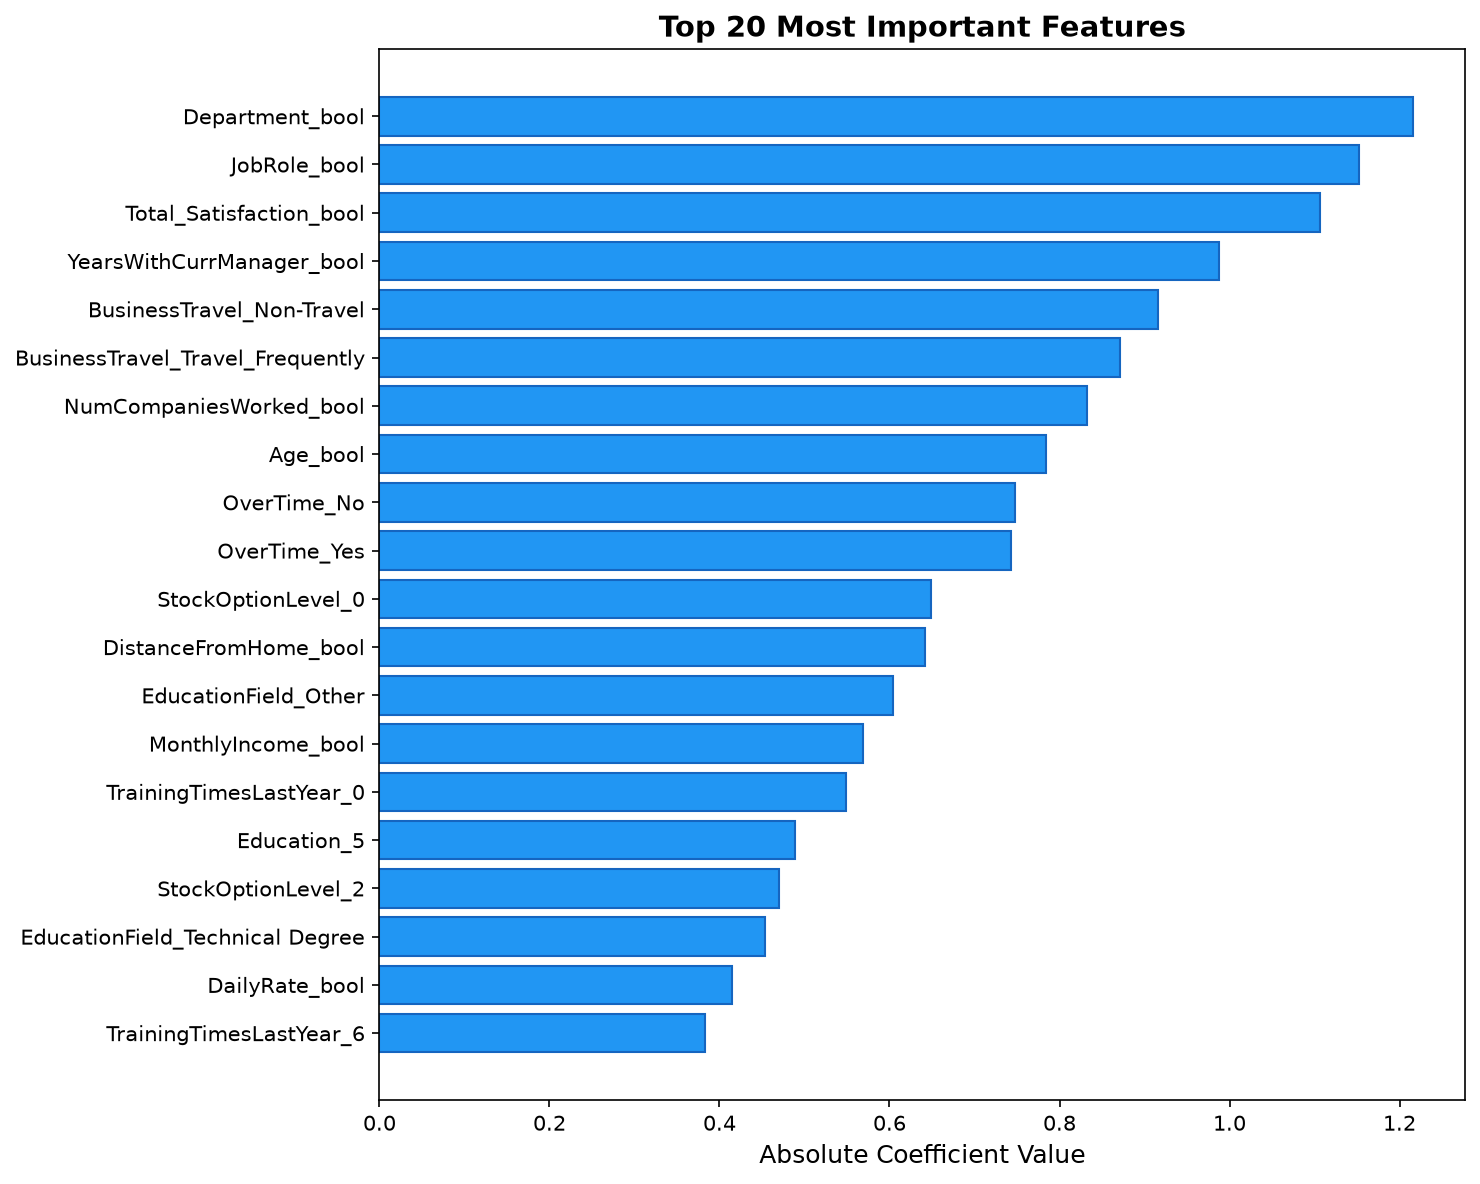
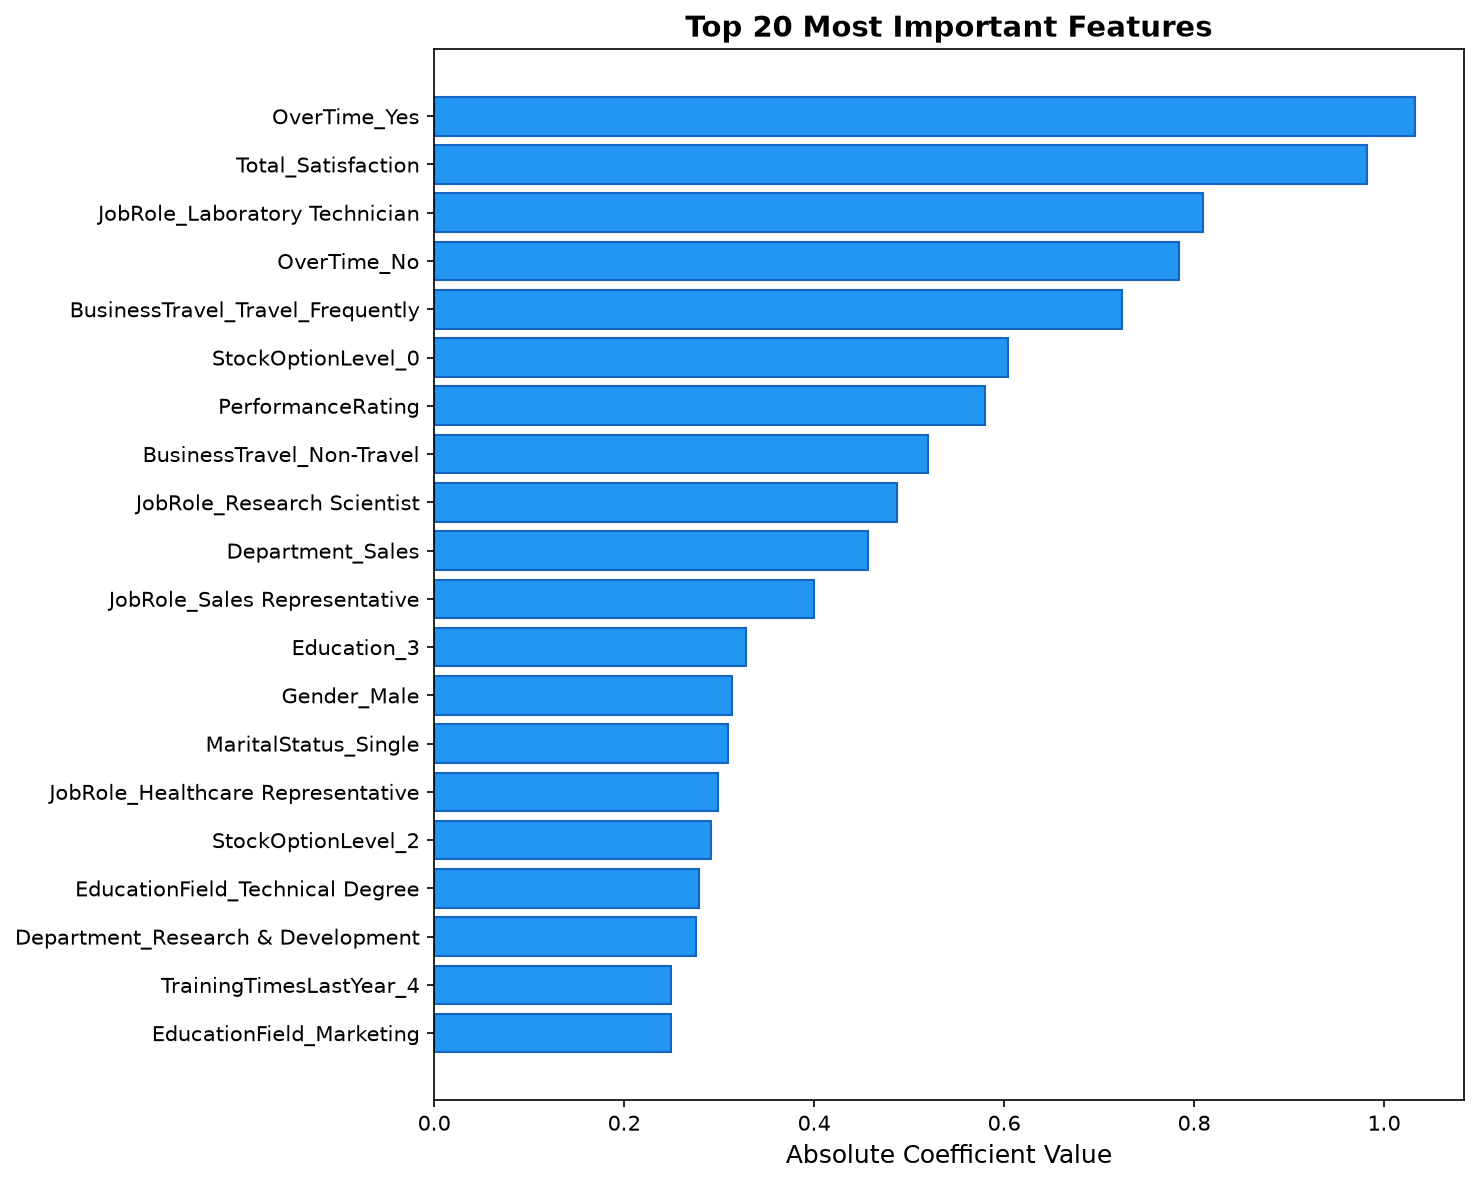
some changes in feature engg

diff --git a/utils.py b/utils.py
@@ -1,6 +1,5 @@
 
 
-import numpy as np
 import pandas as pd
 from sklearn.base import BaseEstimator, TransformerMixin
 
@@ -45,25 +44,7 @@ COLUMNS_TO_DROP_FROM_RAW = [
     "PercentSalaryHike",
 ]
 
-BOOLEAN_FEATURE_RULES = [
-    ("Age",                     "Age_bool",                     "<",  35),
-    ("DailyRate",               "DailyRate_bool",               "<",  800),
-    ("DistanceFromHome",        "DistanceFromHome_bool",        ">",  10),
-    ("HourlyRate",              "HourlyRate_bool",              "<",  65),
-    ("MonthlyIncome",           "MonthlyIncome_bool",           "<",  4000),
-    ("NumCompaniesWorked",      "NumCompaniesWorked_bool",      ">",  3),
-    ("TotalWorkingYears",       "TotalWorkingYears_bool",       "<",  8),
-    ("YearsAtCompany",          "YearsAtCompany_bool",          "<",  3),
-    ("YearsInCurrentRole",      "YearsInCurrentRole_bool",      "<",  3),
-    ("YearsSinceLastPromotion", "YearsSinceLastPromotion_bool", "<",  1),
-    ("YearsWithCurrManager",    "YearsWithCurrManager_bool",    "<",  1),
-]
 
-
-STRING_BOOLEAN_RULES = [
-    ("Department", "Department_bool", "==", "Research & Development"),
-    ("JobRole",    "JobRole_bool",    "==", "Laboratory Technician"),
-]
 
 
 SATISFACTION_COLUMNS = [
@@ -77,9 +58,11 @@ SATISFACTION_COLUMNS = [
 
 CATEGORICAL_FEATURES = [
     "BusinessTravel",
+    "Department",
     "Education",
     "EducationField",
     "Gender",
+    "JobRole",
     "MaritalStatus",
     "OverTime",
     "StockOptionLevel",
@@ -88,36 +71,25 @@ CATEGORICAL_FEATURES = [
 
 
 NUMERICAL_FEATURES = [
+    "Age",
+    "DailyRate",
+    "DistanceFromHome",
+    "HourlyRate",
+    "JobLevel",
+    "MonthlyIncome",
+    "NumCompaniesWorked",
     "PerformanceRating",
-    "Total_Satisfaction_bool",
-    "Age_bool",
-    "DailyRate_bool",
-    "Department_bool",
-    "DistanceFromHome_bool",
-    "JobRole_bool",
-    "HourlyRate_bool",
-    "MonthlyIncome_bool",
-    "NumCompaniesWorked_bool",
-    "TotalWorkingYears_bool",
-    "YearsAtCompany_bool",
-    "YearsInCurrentRole_bool",
-    "YearsSinceLastPromotion_bool",
-    "YearsWithCurrManager_bool",
+    "TotalWorkingYears",
+    "YearsAtCompany",
+    "YearsInCurrentRole",
+    "YearsSinceLastPromotion",
+    "YearsWithCurrManager",
+    "Total_Satisfaction",
 ]
 
 
 
-def _apply_comparison(series: pd.Series, comparator: str, threshold) -> pd.Series:
-    """Apply a comparison operator to a pandas Series."""
-    ops = {
-        "<":  lambda s, t: (s < t).astype(int),
-        ">":  lambda s, t: (s > t).astype(int),
-        ">=": lambda s, t: (s >= t).astype(int),
-        "<=": lambda s, t: (s <= t).astype(int),
-        "==": lambda s, t: (s == t).astype(int),
-        "!=": lambda s, t: (s != t).astype(int),
-    }
-    return ops[comparator](series, threshold)
+
 
 
 
@@ -144,22 +116,7 @@ class FeatureEngineer(BaseEstimator, TransformerMixin):
             df["Total_Satisfaction"] = (
                 df[satisfaction_cols_present].sum(axis=1) / len(satisfaction_cols_present)
             )
-            df["Total_Satisfaction_bool"] = (
-                df["Total_Satisfaction"].ge(2.8).astype(int)
-            )
-            df = df.drop(columns=satisfaction_cols_present + ["Total_Satisfaction"])
-
-        
-        for src, dst, comp, thresh in BOOLEAN_FEATURE_RULES:
-            if src in df.columns:
-                df[dst] = _apply_comparison(df[src], comp, thresh)
-                df = df.drop(columns=[src])
-
-        
-        for src, dst, comp, value in STRING_BOOLEAN_RULES:
-            if src in df.columns:
-                df[dst] = _apply_comparison(df[src], comp, value)
-                df = df.drop(columns=[src])
+            df = df.drop(columns=satisfaction_cols_present)
 
         
         for col in CATEGORICAL_FEATURES:

diff --git a/train.py b/train.py
@@ -269,7 +269,7 @@ def main():
     best_name = best_metrics["Model"]
     print(f"        Best model: {best_name} (ROC-AUC = {best_metrics['ROC-AUC']:.4f})")
 
-     Rebuild the best pipeline and fit on full training data
+    # Rebuild the best pipeline and fit on full training data
     best_model = candidate_models[best_name]
     best_pipeline = Pipeline([
         ("feature_engineer", FeatureEngineer()),
